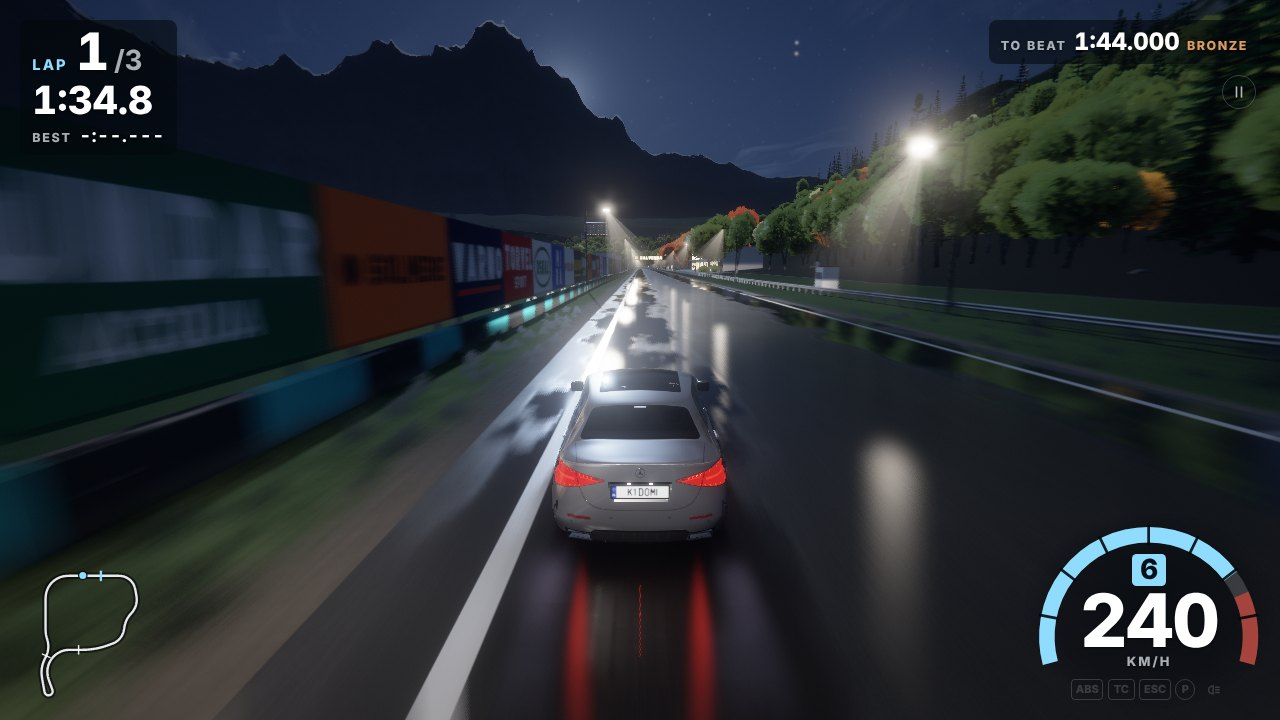
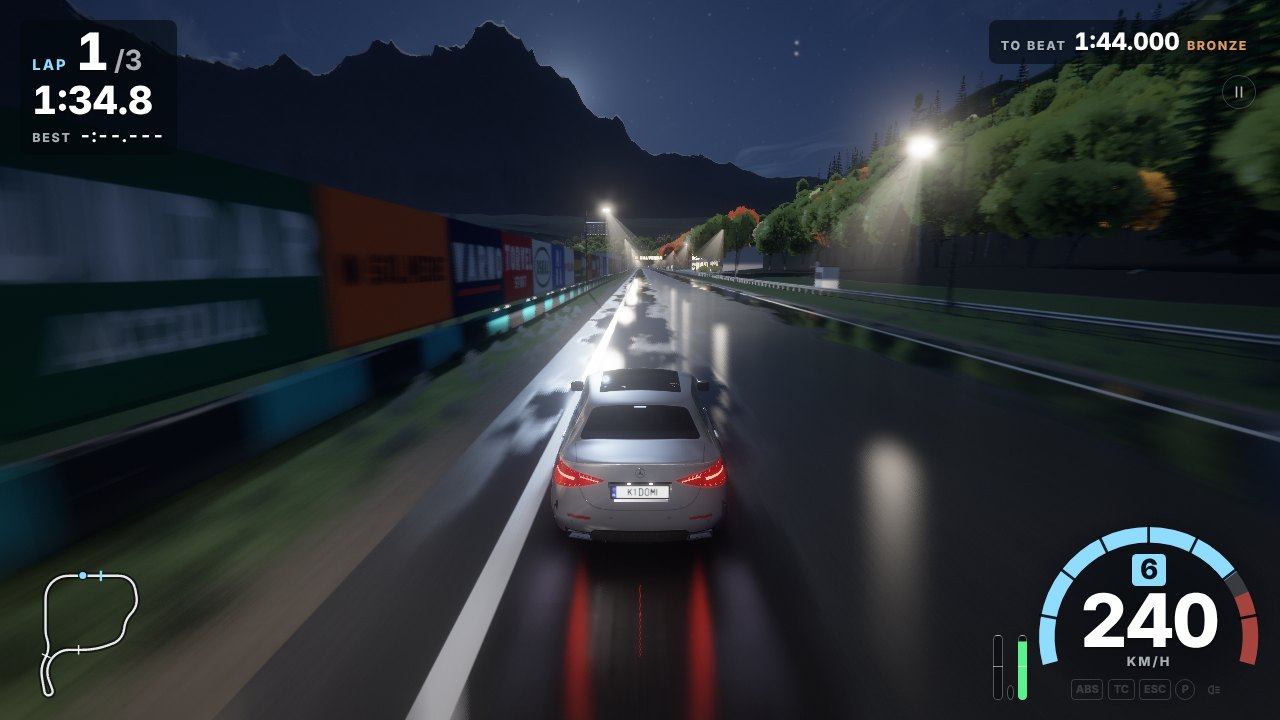
Dreamcar: screenshots regenerated; what the returned version's tests covered
Claude-Session: https://claude.ai/code/session_01Wk7hSoYS2YpKJEfRQJQQPF

diff --git a/03-dreamcar/docs/tools.md b/03-dreamcar/docs/tools.md
@@ -360,3 +360,12 @@ Read this before believing anything above about a device.
 - **Wet grip.** The wet road at night is a look; the tyres do not notice it.
 - **Accessibility** beyond keyboard reachability of the buttons (screen
   readers, colour blindness, reduced motion) has not been considered.
+
+- **The return to main's version with fixes only** (2026-11-23 to 26: the far land's hole, no ground, structure or
+  furniture over the road or inside its edges, the tree shadows' casters in split screen, the pad where the thumb
+  lands and the pedal gauge, the quality ladder, the upscale and the readout). `node tools/unit.mjs`: 8 files passed;
+  `node tools/handling.mjs` ran. The whole playtest against a production build: 705 checks, 0 failed (690 in one
+  run; its tiers section was cut off by a restart of the machine and passed 15 of 15 run again alone). The sound test
+  against the dev server: 62 checks, 0 failed. Stills at an upright phone's size at the places of the owner's
+  screenshots (lap 0:17.8 and 0:49.4): no slab. Not verified: anything on a real phone or GPU, any frame rate, the
+  ladder taken in a running game.
